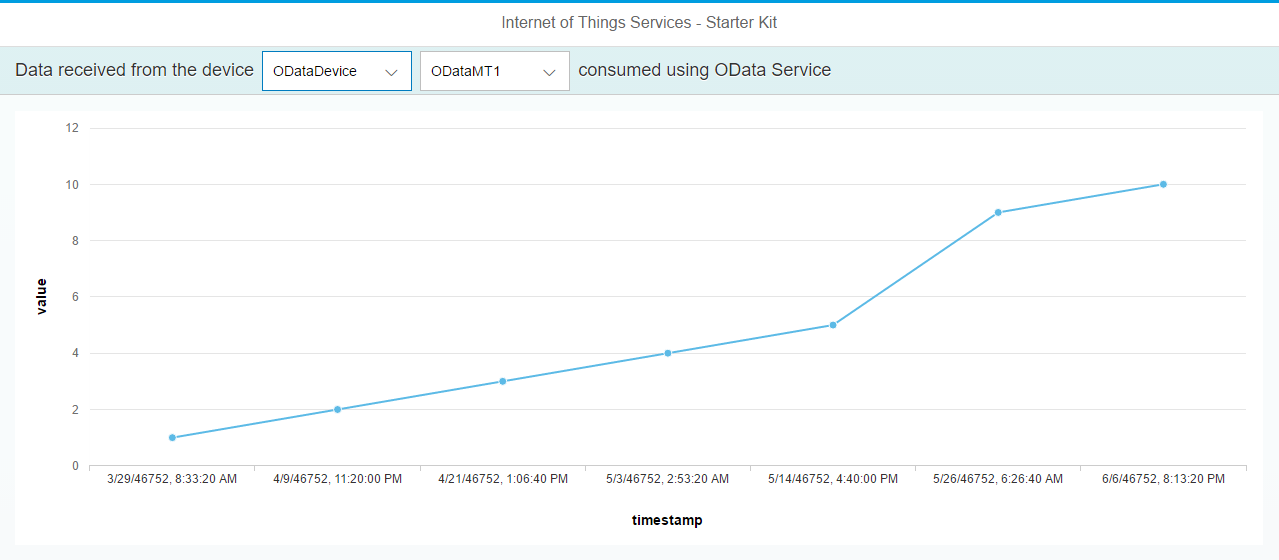
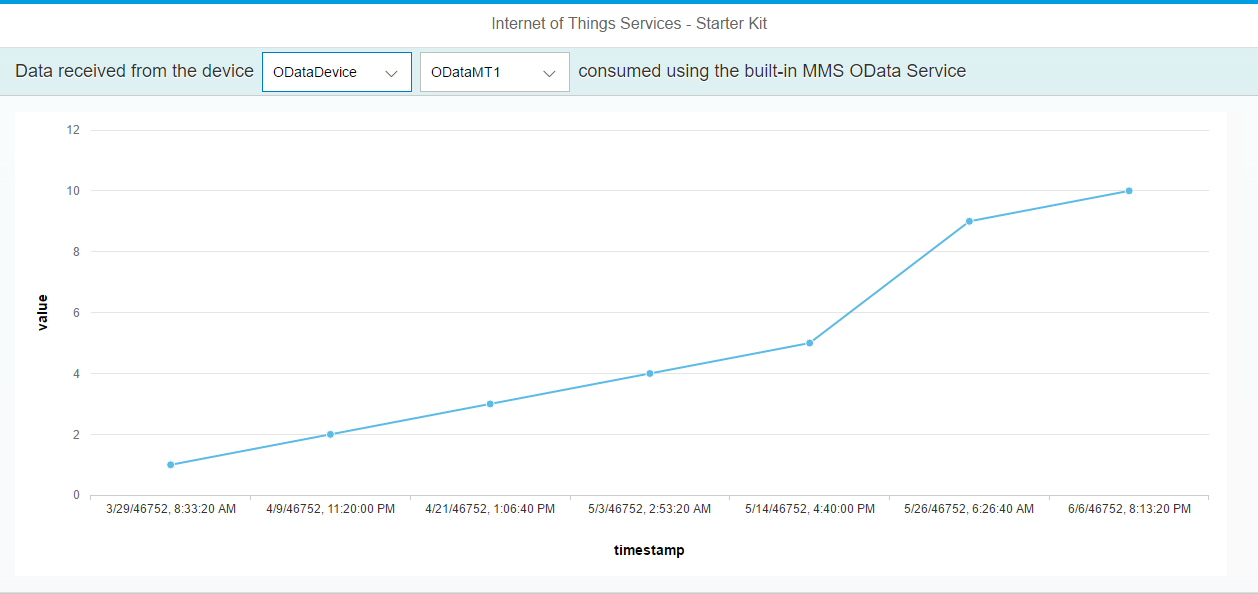
Minor changes to improve example

diff --git a/src/apps/ui5/consumption/src/webapp/controller/main.controller.js b/src/apps/ui5/consumption/src/webapp/controller/main.controller.js
@@ -142,11 +142,9 @@ sap.ui.define([
 		calculateChartHeight: function() {
 			var pageHeaderHeight = 48;
 			var consumptionPanelHeight = 48;
-			var pushPanelHeight = 48;
-			var listHeight = 129;
-			var margins = 42;
+			var margins = 33;
 
-			var staticHeight = pageHeaderHeight + consumptionPanelHeight + pushPanelHeight + listHeight + margins;
+			var staticHeight = pageHeaderHeight + consumptionPanelHeight + margins;
 			var windowHeight = $(window).height();
 
 			return (windowHeight - staticHeight) + "px";

diff --git a/src/apps/ui5/consumption/src/webapp/index.html b/src/apps/ui5/consumption/src/webapp/index.html
@@ -5,7 +5,7 @@
 		<meta http-equiv="X-UA-Compatible" content="IE=edge" />
 		<meta charset="UTF-8">
 
-		<title>odataconsumption</title>
+		<title>Built-in OData API</title>
 
 		<script id="sap-ui-bootstrap"
 			src="../../resources/sap-ui-core.js"

diff --git a/src/apps/ui5/consumption/README.md b/src/apps/ui5/consumption/README.md
@@ -1,4 +1,4 @@
-This directory has the sources for a UI5 application that uses the HCP IoT Services to interact with an IoT Device. It renders the received data that is stored in the database (where the MMS part of the IoT Services writes to) in an xy plot. 
+This directory has the sources for a UI5 application that uses the HCP IoT Services to interact with an IoT Device. It renders the received data that is stored in the database (where the MMS part of the IoT Services writes to) in an xy plot using the MMS built-in OData API.
 
 ![UI5 Consumption example](../../../../images/mms_consume_ui5_01.png)
 
@@ -7,11 +7,13 @@ Download the source of our example application to your system. At first we need 
 
 ![UI5 Destination configuration](../../../../images/mms_consume_ui5_03.png)
 
-Choose ``` Import Destination ``` in order to import the existing destination. Please take care to adopt your ``` user ```, the ``` url ``` and to insert your HCP ``` password ```.
+Choose ``` Import Destination ``` in order to import the existing MMS destination. Please take care to adopt your ``` user ```, the ``` url ``` and to insert your HCP ``` password ```.
 
-![UI5 Destination configuration](../../../../images/mms_consume_ui5_04.png)
+![UI5 MMS Destination configuration](../../../../images/mms_consume_ui5_04.png)
 
-You have to import both destinations in order to get the example working.
+After importing the MMS destination you need to import the RDMS destination the same way. Please take care to adopt your ``` user ```, the ``` url ``` and to insert your HCP ``` password ```.
+
+![UI5 RDMS Destination configuration](../../../../images/mms_consume_ui5_05.png)
 
 ### Edit
 In order to edit or execute our example application go to the ``` src ``` directory. This folder contains the webapp folder and some configuration files. To upload the sample application to the HCP all source files have to be zipped. 
@@ -21,7 +23,7 @@ Open the HCP WebIDE and import the zip file into your workspace. ``` Click > Fil
 ![UI5 Import example](../../../../images/mms_consume_ui5_02.png)
 
 
-You are now ready to edit the sample application. In order to execute the sample application ``` Right Click > index.html > Run > Run index.html ```
+You are now ready to edit the sample application. In order to execute the sample application ``` Right Click > Run > Run as > Web Application ```
 
 Note that this sample application just shows data for message types that contain a ``` timestamp ``` and a ``` value ``` field. See the source code for details.
 

diff --git a/README.md b/README.md
@@ -60,7 +60,7 @@ IoT Business Applications can be built using either the HANA XS, the Java or HTM
 
 * [Consume the messages with MMS embedded client](src/apps/embedded/consumption)
 * [Consume the messages with Web Application based on Java and UI5 using HCP Persistence Service](src/apps/java/consumption)
-* [Consume the messages with UI5 using OData](src/apps/ui5/consumption)
+* [Consume the messages with UI5 using the MMS built-in OData](src/apps/ui5/consumption)
 * [Consume the messages with HANA XS using XSODATA and XSJS](src/apps/xs/consumption)
 * [Consume the messages with Python using PyHDB](src/apps/python/consumption)
 * [Consume the messages with Node.js using NodeHDB](src/apps/nodejs/consumption)
